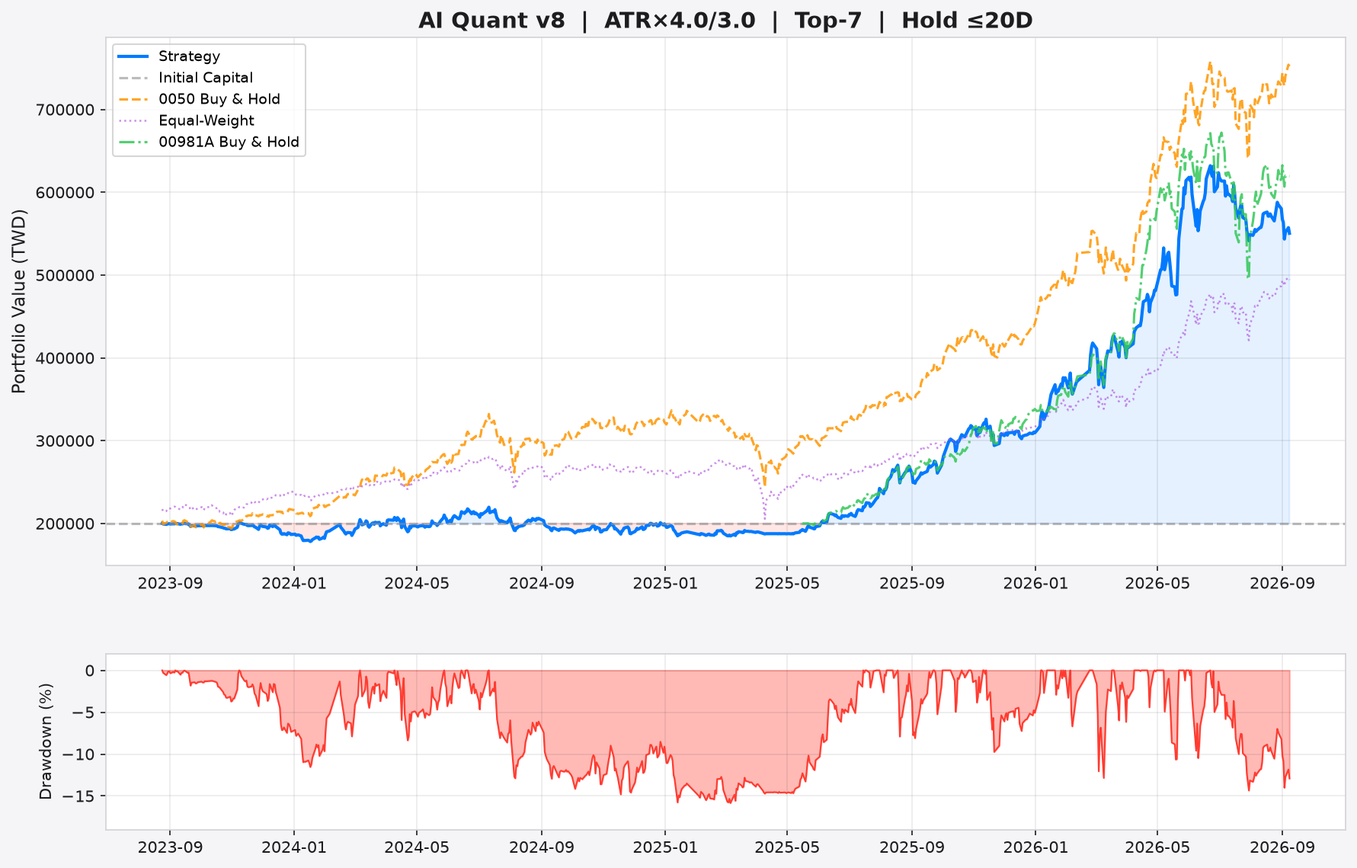
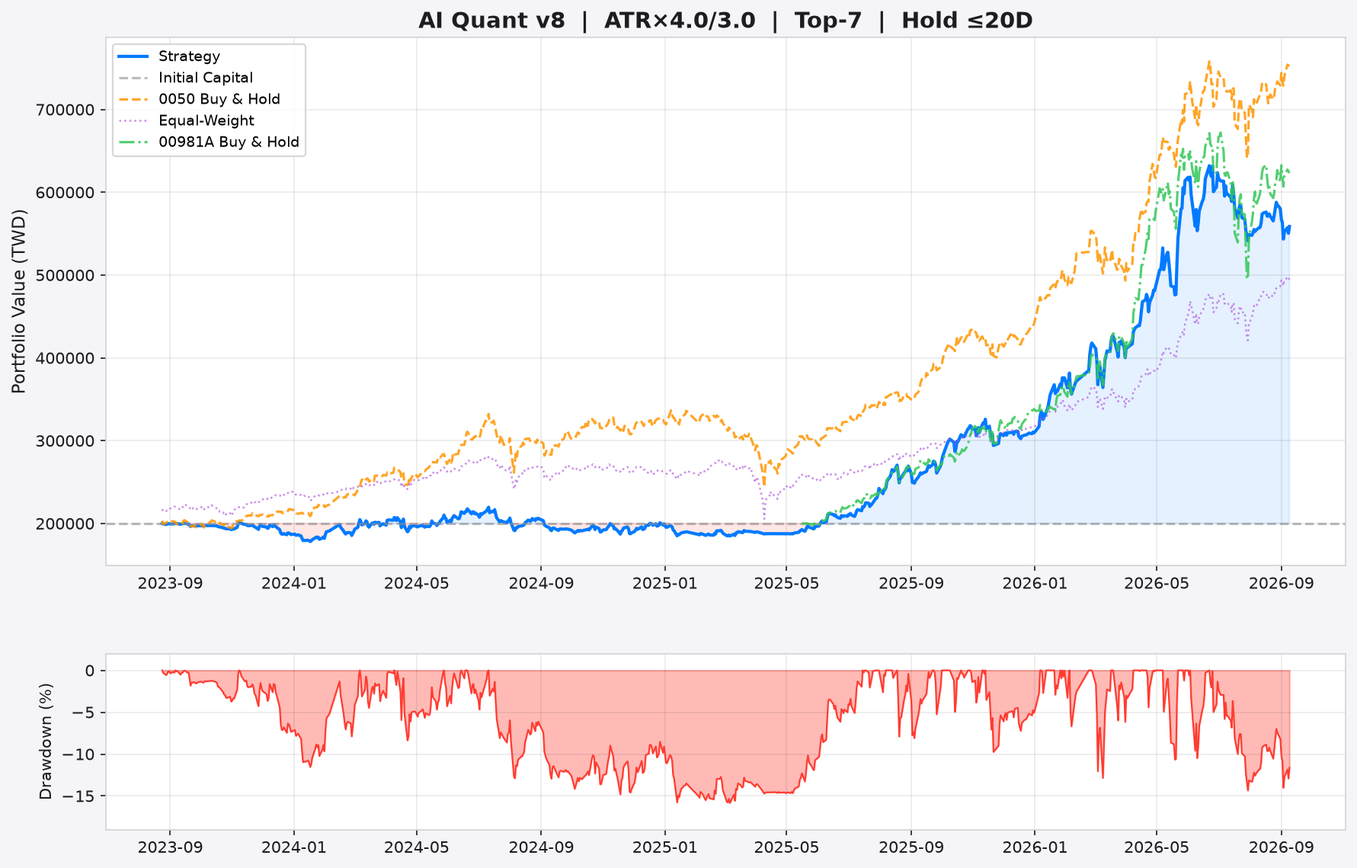
📊 AI Report v8.5 + Paper Trading (2026-09-09)

diff --git a/stock_report.html b/stock_report.html
@@ -3,7 +3,7 @@
 <head>
     <meta charset="utf-8">
     <meta name="viewport" content="width=device-width, initial-scale=1.0">
-    <title>AI 台股量化交易 v8.5 — 2026-09-08</title>
+    <title>AI 台股量化交易 v8.5 — 2026-09-09</title>
     <meta name="description" content="AI 驅動的台股量化交易系統 v8.5，完整風險報告、Benchmark 對比、OCO 智慧掛單建議">
     <script>
         (function() {
@@ -292,7 +292,7 @@
 
     <h1>🎯 AI 台股量化交易 v8.5</h1>
     <p class="subtitle">
-        Event-Driven System &nbsp;|&nbsp; 報表日期: 2026-09-08 &nbsp;|&nbsp;
+        Event-Driven System &nbsp;|&nbsp; 報表日期: 2026-09-09 &nbsp;|&nbsp;
         <span class="config-badge">🛡 ATR×4.0/3.0</span>
         <span class="config-badge">🎯 Top-7</span>
         <span class="config-badge">⏱ 最長 20 天</span>
@@ -303,11 +303,11 @@
     <div class="stats">
         <div class="stat-card">
             <div class="label">策略總報酬率</div>
-            <div class="value" style="color:#00ff00;">+175.2%</div>
+            <div class="value" style="color:#00ff00;">+179.3%</div>
         </div>
         <div class="stat-card">
             <div class="label">年化報酬率</div>
-            <div class="value" style="color:#00ff00;">+41.2%</div>
+            <div class="value" style="color:#00ff00;">+41.9%</div>
         </div>
         <div class="stat-card">
             <div class="label">年化波動率</div>
@@ -315,11 +315,11 @@
         </div>
         <div class="stat-card risk">
             <div class="label">Sharpe Ratio</div>
-            <div class="value" style="color:#00ff00;">1.48</div>
+            <div class="value" style="color:#00ff00;">1.50</div>
         </div>
         <div class="stat-card risk">
             <div class="label">Sortino Ratio</div>
-            <div class="value">2.18</div>
+            <div class="value">2.21</div>
         </div>
         <div class="stat-card risk">
             <div class="label">最大回撤</div>
@@ -327,7 +327,7 @@
         </div>
         <div class="stat-card risk">
             <div class="label">Calmar Ratio</div>
-            <div class="value">2.60</div>
+            <div class="value">2.64</div>
         </div>
         <div class="stat-card">
             <div class="label">完成交易數</div>
@@ -370,23 +370,23 @@
             </tr>
         </thead>
         <tbody>
-<tr><td>2615</td><td>3.97</td><td>112.0</td><td><span style="color:#00ff00; font-weight:bold;">🟢 建議買進 #1</span></td><td><b>停利:</b> <span style="color:#00ff00">139.0</span> (+24.1%) <br><b>停損:</b> <span style="color:#ff4444">91.7</span> (-18.1%) <br><b>最晚出場:</b> 2026-10-08</td><td><span style="font-size:0.72rem; color:#888;">歷史 <b>17</b>筆 | 勝率 <b style="color:#ff4444">47%</b> | 均報酬 <b style="color:#00ff00">+0.3%</b></span></td><td><span style="font-size:0.78rem;">🟢 大買<br><span style="color:#00ff00; font-weight:bold;">+3.2%</span></span></td><td><span style="font-size:0.78rem;">⚪ 中性</span></td></tr>
-<tr><td>1303</td><td>3.95</td><td>235.0</td><td><span style="color:#00ff00; font-weight:bold;">🟢 建議買進 #2</span></td><td><b>停利:</b> <span style="color:#00ff00">295.5</span> (+25.7%) <br><b>停損:</b> <span style="color:#ff4444">189.6</span> (-19.3%) <br><b>最晚出場:</b> 2026-10-08</td><td><span style="font-size:0.72rem; color:#888;">歷史 <b>11</b>筆 | 勝率 <b style="color:#00ff00">73%</b> | 均報酬 <b style="color:#00ff00">+8.2%</b></span></td><td><span style="font-size:0.78rem;">⚪ 無資料<br><span style="color:#888; font-weight:bold;">+0.0%</span></span></td><td><span style="font-size:0.78rem;">⚪ 中性</span></td></tr>
-<tr><td>2884</td><td>3.88</td><td>45.5</td><td><span style="color:#00ff00; font-weight:bold;">🟢 建議買進 #3</span></td><td><b>停利:</b> <span style="color:#00ff00">50.0</span> (+9.9%) <br><b>停損:</b> <span style="color:#ff4444">42.2</span> (-7.4%) <br><b>最晚出場:</b> 2026-10-08</td><td><span style="font-size:0.72rem; color:#888;">歷史 <b>5</b>筆 | 勝率 <b style="color:#00ff00">80%</b> | 均報酬 <b style="color:#00ff00">+1.1%</b></span></td><td><span style="font-size:0.78rem;">⚪ 無資料<br><span style="color:#888; font-weight:bold;">+0.0%</span></span></td><td><span style="font-size:0.78rem;">⚪ 中性</span></td></tr>
-<tr><td>2887</td><td>3.70</td><td>42.8</td><td><span style="color:#00ff00; font-weight:bold;">🟢 建議買進 #4</span></td><td><b>停利:</b> <span style="color:#00ff00">47.4</span> (+10.8%) <br><b>停損:</b> <span style="color:#ff4444">39.3</span> (-8.1%) <br><b>最晚出場:</b> 2026-10-08</td><td><span style="font-size:0.72rem; color:#555;">歷史資料不足</span></td><td><span style="font-size:0.78rem;">🟡 小買<br><span style="color:#ffab00; font-weight:bold;">+0.7%</span></span></td><td><span style="font-size:0.78rem;">⚪ 中性</span></td></tr>
-<tr><td>3443</td><td>3.68</td><td>5960.0</td><td><span style="color:#00ff00; font-weight:bold;">🟢 建議買進 #5</span></td><td><b>停利:</b> <span style="color:#00ff00">7518.0</span> (+26.1%) <br><b>停損:</b> <span style="color:#ff4444">4791.5</span> (-19.6%) <br><b>最晚出場:</b> 2026-10-08</td><td><span style="font-size:0.72rem; color:#888;">歷史 <b>9</b>筆 | 勝率 <b style="color:#ff4444">44%</b> | 均報酬 <b style="color:#ff4444">-0.6%</b></span></td><td><span style="font-size:0.78rem;">🟢 大買<br><span style="color:#00ff00; font-weight:bold;">+2.1%</span></span></td><td><span style="font-size:0.78rem;">⚪ 中性</span></td></tr>
-<tr><td>1326</td><td>3.62</td><td>70.6</td><td><span style="color:#00ff00; font-weight:bold;">🟢 建議買進 #6</span></td><td><b>停利:</b> <span style="color:#00ff00">85.4</span> (+20.9%) <br><b>停損:</b> <span style="color:#ff4444">59.5</span> (-15.7%) <br><b>最晚出場:</b> 2026-10-08</td><td><span style="font-size:0.72rem; color:#888;">歷史 <b>4</b>筆 | 勝率 <b style="color:#ff4444">0%</b> | 均報酬 <b style="color:#ff4444">-8.1%</b></span></td><td><span style="font-size:0.78rem;">🟡 小買<br><span style="color:#ffab00; font-weight:bold;">+1.4%</span></span></td><td><span style="font-size:0.78rem;">⚪ 中性</span></td></tr>
-<tr><td>3017</td><td>3.57</td><td>3285.0</td><td><span style="color:#00ff00; font-weight:bold;">🟢 建議買進 #7</span></td><td><b>停利:</b> <span style="color:#00ff00">4091.9</span> (+24.6%) <br><b>停損:</b> <span style="color:#ff4444">2679.8</span> (-18.4%) <br><b>最晚出場:</b> 2026-10-08</td><td><span style="font-size:0.72rem; color:#888;">歷史 <b>16</b>筆 | 勝率 <b style="color:#00ff00">81%</b> | 均報酬 <b style="color:#00ff00">+9.2%</b></span></td><td><span style="font-size:0.78rem;">🟡 小買<br><span style="color:#ffab00; font-weight:bold;">+1.9%</span></span></td><td><span style="font-size:0.78rem;">⚪ 中性</span></td></tr>
-<tr style="opacity:0.6"><td>2883</td><td>3.55</td><td>37.3</td><td><span style="color:#ffab00">🟡 候選 (超出 Top-K)</span></td><td>-</td><td><span style="font-size:0.72rem; color:#888;">勝率 <b style="color:#00ff00">67%</b></span></td><td><span style="font-size:0.72rem;">🟡 小買<br><span style="color:#888">+1.0%</span></span></td><td><span style="font-size:0.72rem;">⚪</span></td></tr>
-<tr style="opacity:0.6"><td>6669</td><td>3.48</td><td>2340.0</td><td><span style="color:#ffab00">🟡 候選 (超出 Top-K)</span></td><td>-</td><td><span style="font-size:0.72rem; color:#888;">勝率 <b style="color:#ff4444">45%</b></span></td><td><span style="font-size:0.72rem;">🔴 大賣<br><span style="color:#ff4444">-4.4%</span></span></td><td><span style="font-size:0.72rem;">⚪</span></td></tr>
-<tr style="opacity:0.6"><td>5274O</td><td>3.40</td><td>19220.0</td><td><span style="color:#ffab00">🟡 候選 (超出 Top-K)</span></td><td>-</td><td><span style="font-size:0.72rem; color:#888;">勝率 <b style="color:#00ff00">71%</b></span></td><td><span style="font-size:0.72rem;">⚪ 無資料<br><span style="color:#888">+0.0%</span></span></td><td><span style="font-size:0.72rem;">⚪</span></td></tr>
-<tr style="opacity:0.6"><td>2454</td><td>3.37</td><td>4710.0</td><td><span style="color:#ffab00">🟡 候選 (超出 Top-K)</span></td><td>-</td><td><span style="font-size:0.72rem; color:#888;">勝率 <b style="color:#00ff00">75%</b></span></td><td><span style="font-size:0.72rem;">⚪ 無資料<br><span style="color:#888">+0.0%</span></span></td><td><span style="font-size:0.72rem;">⚪</span></td></tr>
-<tr style="opacity:0.6"><td>1301</td><td>3.17</td><td>65.1</td><td><span style="color:#ffab00">🟡 候選 (超出 Top-K)</span></td><td>-</td><td><span style="font-size:0.72rem; color:#888;">勝率 <b style="color:#ff4444">0%</b></span></td><td><span style="font-size:0.72rem;">🟡 小買<br><span style="color:#888">+1.2%</span></span></td><td><span style="font-size:0.72rem;">⚪</span></td></tr>
-<tr style="opacity:0.4"><td>2303</td><td>2.35</td><td>137.0</td><td><span style="color:#aaaaaa">⚪ 觀望 (低於 MA)</span></td><td>-</td><td>-</td><td style="color:#555">-</td><td style="color:#555">-</td></tr>
-<tr style="opacity:0.4"><td>2449</td><td>2.13</td><td>268.5</td><td><span style="color:#aaaaaa">⚪ 觀望 (低於 MA)</span></td><td>-</td><td>-</td><td style="color:#555">-</td><td style="color:#555">-</td></tr>
-<tr style="opacity:0.4"><td>2634</td><td>1.93</td><td>65.9</td><td><span style="color:#aaaaaa">⚪ 觀望 (評分不足)</span></td><td>-</td><td>-</td><td style="color:#555">-</td><td style="color:#555">-</td></tr>
-<tr style="opacity:0.4"><td>1519</td><td>1.78</td><td>728.0</td><td><span style="color:#aaaaaa">⚪ 觀望 (評分不足)</span></td><td>-</td><td>-</td><td style="color:#555">-</td><td style="color:#555">-</td></tr>
-<tr style="opacity:0.4"><td>2395</td><td>1.67</td><td>657.0</td><td><span style="color:#aaaaaa">⚪ 觀望 (評分不足)</span></td><td>-</td><td>-</td><td style="color:#555">-</td><td style="color:#555">-</td></tr>
+<tr><td>2615</td><td>4.00</td><td>116.0</td><td><span style="color:#00ff00; font-weight:bold;">🟢 建議買進 #1</span></td><td><b>停利:</b> <span style="color:#00ff00">144.1</span> (+24.2%) <br><b>停損:</b> <span style="color:#ff4444">94.9</span> (-18.2%) <br><b>最晚出場:</b> 2026-10-12</td><td><span style="font-size:0.72rem; color:#888;">歷史 <b>17</b>筆 | 勝率 <b style="color:#ff4444">47%</b> | 均報酬 <b style="color:#00ff00">+0.3%</b></span></td><td><span style="font-size:0.78rem;">🟢 大買<br><span style="color:#00ff00; font-weight:bold;">+3.2%</span></span></td><td><span style="font-size:0.78rem;">⚪ 中性</span></td></tr>
+<tr><td>1303</td><td>3.90</td><td>236.5</td><td><span style="color:#00ff00; font-weight:bold;">🟢 建議買進 #2</span></td><td><b>停利:</b> <span style="color:#00ff00">297.6</span> (+25.8%) <br><b>停損:</b> <span style="color:#ff4444">190.7</span> (-19.4%) <br><b>最晚出場:</b> 2026-10-12</td><td><span style="font-size:0.72rem; color:#888;">歷史 <b>11</b>筆 | 勝率 <b style="color:#00ff00">73%</b> | 均報酬 <b style="color:#00ff00">+8.2%</b></span></td><td><span style="font-size:0.78rem;">⚪ 無資料<br><span style="color:#888; font-weight:bold;">+0.0%</span></span></td><td><span style="font-size:0.78rem;">⚪ 中性</span></td></tr>
+<tr><td>6505</td><td>3.88</td><td>87.5</td><td><span style="color:#00ff00; font-weight:bold;">🟢 建議買進 #3</span></td><td><b>停利:</b> <span style="color:#00ff00">102.5</span> (+17.1%) <br><b>停損:</b> <span style="color:#ff4444">76.3</span> (-12.8%) <br><b>最晚出場:</b> 2026-10-12</td><td><span style="font-size:0.72rem; color:#888;">歷史 <b>5</b>筆 | 勝率 <b style="color:#ff4444">40%</b> | 均報酬 <b style="color:#ff4444">-3.6%</b></span></td><td><span style="font-size:0.78rem;">⚪ 無資料<br><span style="color:#888; font-weight:bold;">+0.0%</span></span></td><td><span style="font-size:0.78rem;">⚪ 中性</span></td></tr>
+<tr><td>2884</td><td>3.65</td><td>44.2</td><td><span style="color:#00ff00; font-weight:bold;">🟢 建議買進 #4</span></td><td><b>停利:</b> <span style="color:#00ff00">49.0</span> (+10.7%) <br><b>停損:</b> <span style="color:#ff4444">40.7</span> (-8.1%) <br><b>最晚出場:</b> 2026-10-12</td><td><span style="font-size:0.72rem; color:#888;">歷史 <b>5</b>筆 | 勝率 <b style="color:#00ff00">80%</b> | 均報酬 <b style="color:#00ff00">+1.1%</b></span></td><td><span style="font-size:0.78rem;">⚪ 無資料<br><span style="color:#888; font-weight:bold;">+0.0%</span></span></td><td><span style="font-size:0.78rem;">⚪ 中性</span></td></tr>
+<tr><td>1326</td><td>3.63</td><td>71.8</td><td><span style="color:#00ff00; font-weight:bold;">🟢 建議買進 #5</span></td><td><b>停利:</b> <span style="color:#00ff00">86.9</span> (+21.0%) <br><b>停損:</b> <span style="color:#ff4444">60.5</span> (-15.8%) <br><b>最晚出場:</b> 2026-10-12</td><td><span style="font-size:0.72rem; color:#888;">歷史 <b>4</b>筆 | 勝率 <b style="color:#ff4444">0%</b> | 均報酬 <b style="color:#ff4444">-8.1%</b></span></td><td><span style="font-size:0.78rem;">🟡 小買<br><span style="color:#ffab00; font-weight:bold;">+1.4%</span></span></td><td><span style="font-size:0.78rem;">⚪ 中性</span></td></tr>
+<tr><td>2887</td><td>3.62</td><td>42.4</td><td><span style="color:#00ff00; font-weight:bold;">🟢 建議買進 #6</span></td><td><b>停利:</b> <span style="color:#00ff00">47.2</span> (+11.2%) <br><b>停損:</b> <span style="color:#ff4444">38.8</span> (-8.4%) <br><b>最晚出場:</b> 2026-10-12</td><td><span style="font-size:0.72rem; color:#555;">歷史資料不足</span></td><td><span style="font-size:0.78rem;">🟡 小買<br><span style="color:#ffab00; font-weight:bold;">+0.7%</span></span></td><td><span style="font-size:0.78rem;">⚪ 中性</span></td></tr>
+<tr><td>3017</td><td>3.57</td><td>3380.0</td><td><span style="color:#00ff00; font-weight:bold;">🟢 建議買進 #7</span></td><td><b>停利:</b> <span style="color:#00ff00">4181.1</span> (+23.7%) <br><b>停損:</b> <span style="color:#ff4444">2779.2</span> (-17.8%) <br><b>最晚出場:</b> 2026-10-12</td><td><span style="font-size:0.72rem; color:#888;">歷史 <b>16</b>筆 | 勝率 <b style="color:#00ff00">81%</b> | 均報酬 <b style="color:#00ff00">+9.2%</b></span></td><td><span style="font-size:0.78rem;">🟡 小買<br><span style="color:#ffab00; font-weight:bold;">+1.9%</span></span></td><td><span style="font-size:0.78rem;">⚪ 中性</span></td></tr>
+<tr style="opacity:0.6"><td>2883</td><td>3.47</td><td>36.8</td><td><span style="color:#ffab00">🟡 候選 (超出 Top-K)</span></td><td>-</td><td><span style="font-size:0.72rem; color:#888;">勝率 <b style="color:#00ff00">67%</b></span></td><td><span style="font-size:0.72rem;">🟡 小買<br><span style="color:#888">+1.0%</span></span></td><td><span style="font-size:0.72rem;">⚪</span></td></tr>
+<tr style="opacity:0.6"><td>1301</td><td>3.45</td><td>66.7</td><td><span style="color:#ffab00">🟡 候選 (超出 Top-K)</span></td><td>-</td><td><span style="font-size:0.72rem; color:#888;">勝率 <b style="color:#ff4444">0%</b></span></td><td><span style="font-size:0.72rem;">🟡 小買<br><span style="color:#888">+1.2%</span></span></td><td><span style="font-size:0.72rem;">⚪</span></td></tr>
+<tr style="opacity:0.6"><td>3443</td><td>3.43</td><td>5925.0</td><td><span style="color:#ffab00">🟡 候選 (超出 Top-K)</span></td><td>-</td><td><span style="font-size:0.72rem; color:#888;">勝率 <b style="color:#ff4444">44%</b></span></td><td><span style="font-size:0.72rem;">🟢 大買<br><span style="color:#00ff00">+2.1%</span></span></td><td><span style="font-size:0.72rem;">⚪</span></td></tr>
+<tr style="opacity:0.6"><td>6669</td><td>3.28</td><td>2325.0</td><td><span style="color:#ffab00">🟡 候選 (超出 Top-K)</span></td><td>-</td><td><span style="font-size:0.72rem; color:#888;">勝率 <b style="color:#ff4444">45%</b></span></td><td><span style="font-size:0.72rem;">🔴 大賣<br><span style="color:#ff4444">-4.4%</span></span></td><td><span style="font-size:0.72rem;">⚪</span></td></tr>
+<tr style="opacity:0.6"><td>2454</td><td>3.25</td><td>4625.0</td><td><span style="color:#ffab00">🟡 候選 (超出 Top-K)</span></td><td>-</td><td><span style="font-size:0.72rem; color:#888;">勝率 <b style="color:#00ff00">75%</b></span></td><td><span style="font-size:0.72rem;">⚪ 無資料<br><span style="color:#888">+0.0%</span></span></td><td><span style="font-size:0.72rem;">⚪</span></td></tr>
+<tr style="opacity:0.4"><td>2382</td><td>1.93</td><td>342.0</td><td><span style="color:#aaaaaa">⚪ 觀望 (評分不足)</span></td><td>-</td><td>-</td><td style="color:#555">-</td><td style="color:#555">-</td></tr>
+<tr style="opacity:0.4"><td>1519</td><td>1.88</td><td>735.0</td><td><span style="color:#aaaaaa">⚪ 觀望 (評分不足)</span></td><td>-</td><td>-</td><td style="color:#555">-</td><td style="color:#555">-</td></tr>
+<tr style="opacity:0.4"><td>2344</td><td>1.85</td><td>183.0</td><td><span style="color:#aaaaaa">⚪ 觀望 (評分不足)</span></td><td>-</td><td>-</td><td style="color:#555">-</td><td style="color:#555">-</td></tr>
+<tr style="opacity:0.4"><td>3711</td><td>1.73</td><td>640.0</td><td><span style="color:#aaaaaa">⚪ 觀望 (評分不足)</span></td><td>-</td><td>-</td><td style="color:#555">-</td><td style="color:#555">-</td></tr>
+<tr style="opacity:0.4"><td>2449</td><td>1.70</td><td>270.0</td><td><span style="color:#aaaaaa">⚪ 觀望 (評分不足)</span></td><td>-</td><td>-</td><td style="color:#555">-</td><td style="color:#555">-</td></tr>
 
         </tbody>
     </table>
@@ -473,14 +473,14 @@
         </div>
         <div class="stat-card" style="border-left-color:#ff4444">
             <div class="label">超額年化報酬 (α)</div>
-            <div class="value" style="color:#ff4444">-10.6%</div>
+            <div class="value" style="color:#ff4444">-9.9%</div>
         </div>
     </div>
 
     <div class="stats">
         <div class="stat-card benchmark">
             <div class="label">00981A 年化報酬</div>
-            <div class="value">+141.5%</div>
+            <div class="value">+142.1%</div>
         </div>
         <div class="stat-card benchmark">
             <div class="label">00981A 最大回撤</div>
@@ -492,7 +492,7 @@
         </div>
         <div class="stat-card" style="border-left-color:#ff4444">
             <div class="label">超額 vs 00981A (共存期)</div>
-            <div class="value" style="color:#ff4444">-23.9%</div>
+            <div class="value" style="color:#ff4444">-21.7%</div>
         </div>
     </div>
     <img src="backtest_chart.png" alt="AI Quantitative Backtest Equity Curve with Benchmark">
@@ -529,7 +529,7 @@
     <div class="stats">
         <div class="stat-card risk">
             <div class="label">目前回撤</div>
-            <div class="value" style="color:#ff4444">-12.9%</div>
+            <div class="value" style="color:#ff4444">-11.6%</div>
         </div>
         <div class="stat-card">
             <div class="label">權益最高點</div>
@@ -544,7 +544,7 @@
         <thead><tr><th>#</th><th>開始日</th><th>恢復日</th><th>最大深度</th><th>持續天數</th></tr></thead>
         <tbody>
 <tr><td>#1</td><td>2024-07-12</td><td>2025-07-15</td><td style="color:#ff4444; font-weight:bold">-15.8%</td><td>368 天</td></tr>
-<tr><td>#2</td><td>2026-06-26</td><td>2026-09-08</td><td style="color:#ff4444; font-weight:bold">-14.3%</td><td>74 天</td></tr>
+<tr><td>#2</td><td>2026-06-26</td><td>2026-09-09</td><td style="color:#ff4444; font-weight:bold">-14.3%</td><td>75 天</td></tr>
 <tr><td>#3</td><td>2026-03-02</td><td>2026-03-17</td><td style="color:#ff4444; font-weight:bold">-12.9%</td><td>15 天</td></tr>
 <tr><td>#4</td><td>2023-11-13</td><td>2024-03-06</td><td style="color:#ff4444; font-weight:bold">-11.5%</td><td>114 天</td></tr>
 <tr><td>#5</td><td>2026-05-08</td><td>2026-05-22</td><td style="color:#ff4444; font-weight:bold">-10.7%</td><td>14 天</td></tr>
@@ -558,11 +558,11 @@
     <div class="stats">
         <div class="stat-card" style="border-left-color:#ff4444">
             <div class="label">近 60 日 Sharpe</div>
-            <div class="value" style="color:#ff4444">-0.96</div>
+            <div class="value" style="color:#ff4444">-0.79</div>
         </div>
         <div class="stat-card">
             <div class="label">歷史平均 Sharpe</div>
-            <div class="value">1.38</div>
+            <div class="value">1.37</div>
         </div>
         <div class="stat-card risk">
             <div class="label">歷史最低 Sharpe</div>
@@ -723,7 +723,7 @@
 <tr style="background:rgba(0,255,0,0.05)"><td>2026-06</td><td style="color:#00ff00; font-weight:bold">+1.5%</td></tr>
 <tr style="background:rgba(255,68,68,0.30)"><td>2026-07</td><td style="color:#ff4444; font-weight:bold">-12.0%</td></tr>
 <tr style="background:rgba(0,255,0,0.17)"><td>2026-08</td><td style="color:#00ff00; font-weight:bold">+5.7%</td></tr>
-<tr style="background:rgba(255,68,68,0.15)"><td>2026-09</td><td style="color:#ff4444; font-weight:bold">-5.1%</td></tr>
+<tr style="background:rgba(255,68,68,0.11)"><td>2026-09</td><td style="color:#ff4444; font-weight:bold">-3.7%</td></tr>
 
         </tbody>
     </table>

diff --git a/paper_trading.html b/paper_trading.html
@@ -3,7 +3,7 @@
 <head>
     <meta charset="utf-8">
     <meta name="viewport" content="width=device-width, initial-scale=1.0">
-    <title>Paper Trading v8.5 — 2026-09-08</title>
+    <title>Paper Trading v8.5 — 2026-09-09</title>
     <meta name="description" content="TW Stocker v8.5 Paper Trading 實時績效追蹤">
     <script src="https://cdn.jsdelivr.net/npm/chart.js@4"></script>
     <style>
@@ -92,7 +92,7 @@
     <h1>📈 Paper Trading v8.5</h1>
     <p class="subtitle">
         <span class="badge badge-live">● LIVE</span>
-        起始日 2026-04-22 | 更新 2026-09-08 | 初始資金 200,000 | 保留本金 10%，其餘投入
+        起始日 2026-04-22 | 更新 2026-09-09 | 初始資金 200,000 | 保留本金 10%，其餘投入
     </p>
 
     <div class="metrics">
@@ -106,7 +106,7 @@
         </div>
         <div class="metric">
             <div class="label">年化報酬</div>
-            <div class="value red">-7.1%</div>
+            <div class="value red">-7.0%</div>
         </div>
         <div class="metric">
             <div class="label">最大回撤</div>
@@ -369,10 +369,10 @@ const ctx = document.getElementById('equityChart').getContext('2d');
 new Chart(ctx, {
     type: 'line',
     data: {
-        labels: ["2026-04-22", "2026-04-23", "2026-04-24", "2026-04-27", "2026-04-29", "2026-04-30", "2026-05-01", "2026-05-04", "2026-05-05", "2026-05-06", "2026-05-07", "2026-05-08", "2026-05-11", "2026-05-12", "2026-05-13", "2026-05-14", "2026-05-15", "2026-05-18", "2026-05-19", "2026-05-20", "2026-05-21", "2026-05-22", "2026-05-25", "2026-05-26", "2026-05-27", "2026-05-28", "2026-05-29", "2026-06-01", "2026-06-02", "2026-06-03", "2026-06-04", "2026-06-05", "2026-06-08", "2026-06-09", "2026-06-10", "2026-06-11", "2026-06-12", "2026-06-15", "2026-06-16", "2026-06-17", "2026-06-18", "2026-06-19", "2026-06-22", "2026-06-23", "2026-06-24", "2026-06-25", "2026-06-26", "2026-06-29", "2026-06-30", "2026-07-01", "2026-07-02", "2026-07-03", "2026-07-06", "2026-07-07", "2026-07-08", "2026-07-09", "2026-07-10", "2026-07-13", "2026-07-14", "2026-07-15", "2026-07-16", "2026-07-17", "2026-07-20", "2026-07-21", "2026-07-22", "2026-07-23", "2026-07-24", "2026-07-27", "2026-07-28", "2026-07-29", "2026-07-30", "2026-07-31", "2026-08-03", "2026-08-04", "2026-08-05", "2026-08-06", "2026-08-07", "2026-08-10", "2026-08-11", "2026-08-12", "2026-08-13", "2026-08-14", "2026-08-17", "2026-08-18", "2026-08-19", "2026-08-20", "2026-08-21", "2026-08-24", "2026-08-25", "2026-08-26", "2026-08-27", "2026-08-28", "2026-08-31", "2026-09-01", "2026-09-02", "2026-09-03", "2026-09-04", "2026-09-07", "2026-09-08"],
+        labels: ["2026-04-22", "2026-04-23", "2026-04-24", "2026-04-27", "2026-04-29", "2026-04-30", "2026-05-01", "2026-05-04", "2026-05-05", "2026-05-06", "2026-05-07", "2026-05-08", "2026-05-11", "2026-05-12", "2026-05-13", "2026-05-14", "2026-05-15", "2026-05-18", "2026-05-19", "2026-05-20", "2026-05-21", "2026-05-22", "2026-05-25", "2026-05-26", "2026-05-27", "2026-05-28", "2026-05-29", "2026-06-01", "2026-06-02", "2026-06-03", "2026-06-04", "2026-06-05", "2026-06-08", "2026-06-09", "2026-06-10", "2026-06-11", "2026-06-12", "2026-06-15", "2026-06-16", "2026-06-17", "2026-06-18", "2026-06-19", "2026-06-22", "2026-06-23", "2026-06-24", "2026-06-25", "2026-06-26", "2026-06-29", "2026-06-30", "2026-07-01", "2026-07-02", "2026-07-03", "2026-07-06", "2026-07-07", "2026-07-08", "2026-07-09", "2026-07-10", "2026-07-13", "2026-07-14", "2026-07-15", "2026-07-16", "2026-07-17", "2026-07-20", "2026-07-21", "2026-07-22", "2026-07-23", "2026-07-24", "2026-07-27", "2026-07-28", "2026-07-29", "2026-07-30", "2026-07-31", "2026-08-03", "2026-08-04", "2026-08-05", "2026-08-06", "2026-08-07", "2026-08-10", "2026-08-11", "2026-08-12", "2026-08-13", "2026-08-14", "2026-08-17", "2026-08-18", "2026-08-19", "2026-08-20", "2026-08-21", "2026-08-24", "2026-08-25", "2026-08-26", "2026-08-27", "2026-08-28", "2026-08-31", "2026-09-01", "2026-09-02", "2026-09-03", "2026-09-04", "2026-09-07", "2026-09-08", "2026-09-09"],
         datasets: [{
             label: 'Paper Trading 權益',
-            data: [198952.0, 198438.0, 203189.0, 204266.0, 202703.0, 207261.0, 207261.0, 209021.0, 209122.0, 210225.0, 213939.0, 211340.0, 217936.0, 218528.0, 216129.0, 216592.0, 213700.0, 216976.0, 214891.0, 214560.0, 221605.0, 224953.0, 228551.0, 229268.0, 233947.0, 232983.0, 234110.0, 237186.0, 237898.0, 237958.0, 237613.0, 237223.0, 236533.0, 237748.0, 236788.0, 236578.0, 236863.0, 237733.0, 238003.0, 237703.0, 237493.0, 237493.0, 237645.0, 237645.0, 237645.0, 237645.0, 237645.0, 237645.0, 237645.0, 237645.0, 237645.0, 237645.0, 237645.0, 237645.0, 237645.0, 237645.0, 239822.0, 234492.0, 234312.0, 246822.0, 237846.0, 223562.0, 215192.0, 220651.0, 226371.0, 222206.0, 214222.0, 217885.0, 207788.0, 200844.0, 195950.0, 194460.0, 194460.0, 194460.0, 194460.0, 194460.0, 194460.0, 194460.0, 194460.0, 194460.0, 194460.0, 194460.0, 194460.0, 194460.0, 194460.0, 194460.0, 194460.0, 194460.0, 194460.0, 194460.0, 194460.0, 194460.0, 194460.0, 194460.0, 194460.0, 194460.0, 194460.0, 194460.0, 194460.0],
+            data: [198952.0, 198438.0, 203189.0, 204266.0, 202703.0, 207261.0, 207261.0, 209021.0, 209122.0, 210225.0, 213939.0, 211340.0, 217936.0, 218528.0, 216129.0, 216592.0, 213700.0, 216976.0, 214891.0, 214560.0, 221605.0, 224953.0, 228551.0, 229268.0, 233947.0, 232983.0, 234110.0, 237186.0, 237898.0, 237958.0, 237613.0, 237223.0, 236533.0, 237748.0, 236788.0, 236578.0, 236863.0, 237733.0, 238003.0, 237703.0, 237493.0, 237493.0, 237645.0, 237645.0, 237645.0, 237645.0, 237645.0, 237645.0, 237645.0, 237645.0, 237645.0, 237645.0, 237645.0, 237645.0, 237645.0, 237645.0, 239822.0, 234492.0, 234312.0, 246822.0, 237846.0, 223562.0, 215192.0, 220651.0, 226371.0, 222206.0, 214222.0, 217885.0, 207788.0, 200844.0, 195950.0, 194460.0, 194460.0, 194460.0, 194460.0, 194460.0, 194460.0, 194460.0, 194460.0, 194460.0, 194460.0, 194460.0, 194460.0, 194460.0, 194460.0, 194460.0, 194460.0, 194460.0, 194460.0, 194460.0, 194460.0, 194460.0, 194460.0, 194460.0, 194460.0, 194460.0, 194460.0, 194460.0, 194460.0, 194460.0],
             borderColor: '#60a5fa',
             backgroundColor: 'rgba(96, 165, 250, 0.1)',
             fill: true,
@@ -381,7 +381,7 @@ new Chart(ctx, {
             borderWidth: 2,
         }, {
             label: '初始資金',
-            data: [200000, 200000, 200000, 200000, 200000, 200000, 200000, 200000, 200000, 200000, 200000, 200000, 200000, 200000, 200000, 200000, 200000, 200000, 200000, 200000, 200000, 200000, 200000, 200000, 200000, 200000, 200000, 200000, 200000, 200000, 200000, 200000, 200000, 200000, 200000, 200000, 200000, 200000, 200000, 200000, 200000, 200000, 200000, 200000, 200000, 200000, 200000, 200000, 200000, 200000, 200000, 200000, 200000, 200000, 200000, 200000, 200000, 200000, 200000, 200000, 200000, 200000, 200000, 200000, 200000, 200000, 200000, 200000, 200000, 200000, 200000, 200000, 200000, 200000, 200000, 200000, 200000, 200000, 200000, 200000, 200000, 200000, 200000, 200000, 200000, 200000, 200000, 200000, 200000, 200000, 200000, 200000, 200000, 200000, 200000, 200000, 200000, 200000, 200000],
+            data: [200000, 200000, 200000, 200000, 200000, 200000, 200000, 200000, 200000, 200000, 200000, 200000, 200000, 200000, 200000, 200000, 200000, 200000, 200000, 200000, 200000, 200000, 200000, 200000, 200000, 200000, 200000, 200000, 200000, 200000, 200000, 200000, 200000, 200000, 200000, 200000, 200000, 200000, 200000, 200000, 200000, 200000, 200000, 200000, 200000, 200000, 200000, 200000, 200000, 200000, 200000, 200000, 200000, 200000, 200000, 200000, 200000, 200000, 200000, 200000, 200000, 200000, 200000, 200000, 200000, 200000, 200000, 200000, 200000, 200000, 200000, 200000, 200000, 200000, 200000, 200000, 200000, 200000, 200000, 200000, 200000, 200000, 200000, 200000, 200000, 200000, 200000, 200000, 200000, 200000, 200000, 200000, 200000, 200000, 200000, 200000, 200000, 200000, 200000, 200000],
             borderColor: '#475569',
             borderDash: [5, 5],
             fill: false,
